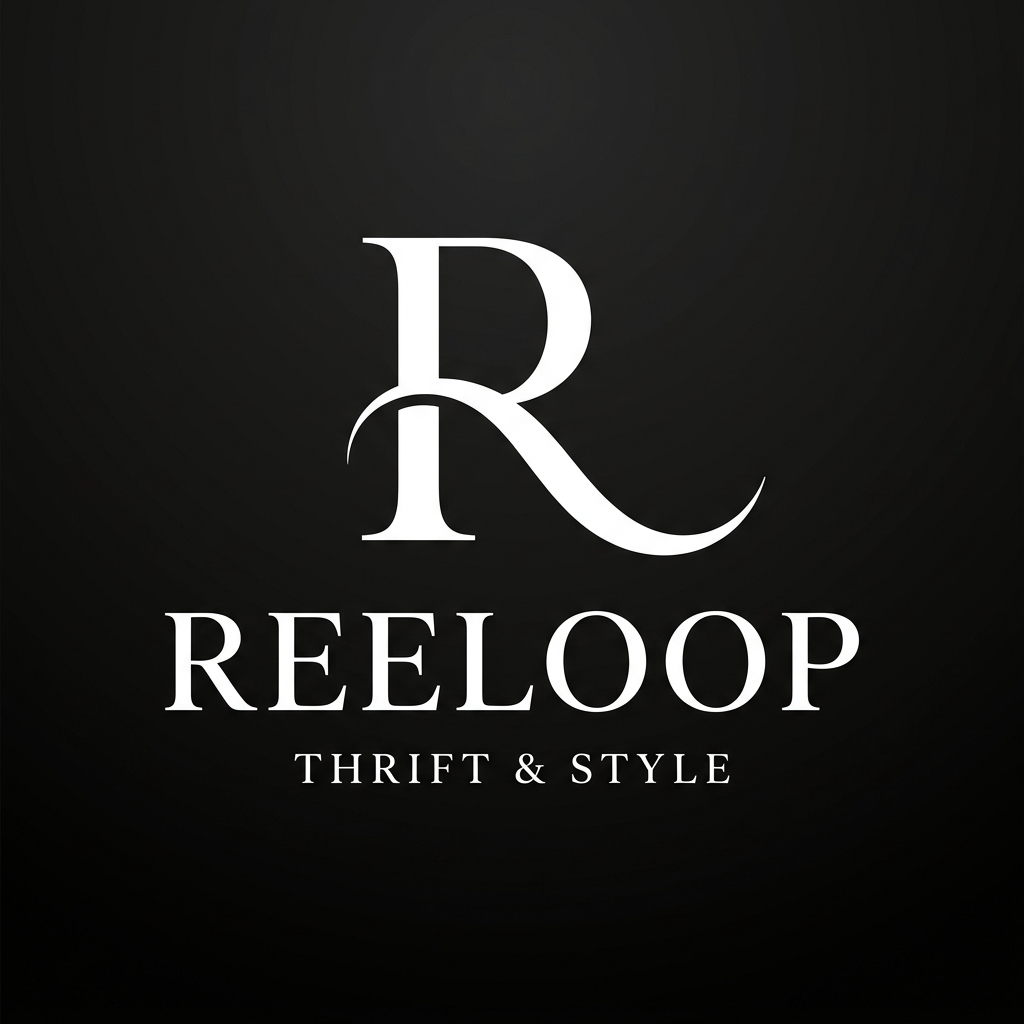
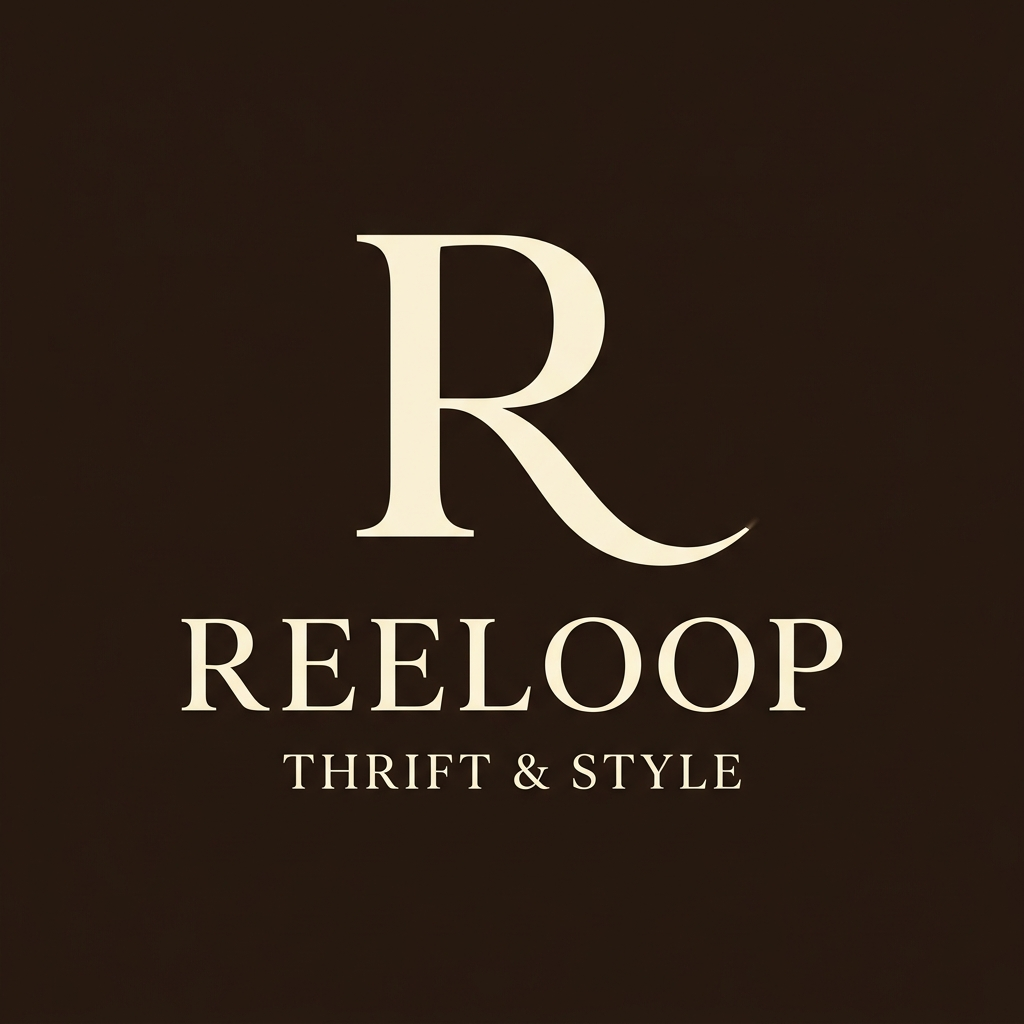
Update theme and cover image to dark brown and cream

diff --git a/src/app/globals.css b/src/app/globals.css
@@ -1,14 +1,14 @@
 @import "tailwindcss";
 
 :root {
-  --background: #ffffff; /* White */
-  --foreground: #111111; /* Almost black */
-  --accent: #000000; /* Black */
-  --accent-foreground: #ffffff; /* White */
-  --pink-light: #e5e5e5; /* Light gray */
-  --pink-gold: #cccccc; /* Medium gray */
-  --card-bg: rgba(255, 255, 255, 0.95);
-  --bg-overlay: rgba(255, 255, 255, 0.95);
+  --background: #FDFBF7; /* Cream */
+  --foreground: #3B2F2F; /* Dark Brown */
+  --accent: #5C4033; /* Rich Earthy Brown */
+  --accent-foreground: #FDFBF7; /* Cream */
+  --pink-light: #E6D5C3; /* Warm Sand */
+  --pink-gold: #C4A484; /* Soft Camel */
+  --card-bg: rgba(253, 251, 247, 0.95); /* Cream semi-transparent */
+  --bg-overlay: rgba(253, 251, 247, 0.95);
 }
 
 @theme inline {
@@ -24,14 +24,14 @@
 
 @media (prefers-color-scheme: dark) {
   :root {
-    --background: #000000; /* Black */
-    --foreground: #f5f5f5; /* Light gray/white */
-    --accent: #ffffff; /* White */
-    --accent-foreground: #000000; /* Black */
-    --pink-light: #333333; /* Dark gray */
-    --pink-gold: #666666; /* Medium gray */
-    --card-bg: rgba(17, 17, 17, 0.85);
-    --bg-overlay: rgba(0, 0, 0, 0.92);
+    --background: #2B211E; /* Dark Brown Background */
+    --foreground: #F5EFEB; /* Soft Cream */
+    --accent: #D2B48C; /* Tan / Light Brown */
+    --accent-foreground: #2B211E; /* Dark Brown */
+    --pink-light: #4A3B32; /* Muddy Brown */
+    --pink-gold: #8B7355; /* Medium Brown */
+    --card-bg: rgba(43, 33, 30, 0.85);
+    --bg-overlay: rgba(43, 33, 30, 0.92);
   }
 }
 